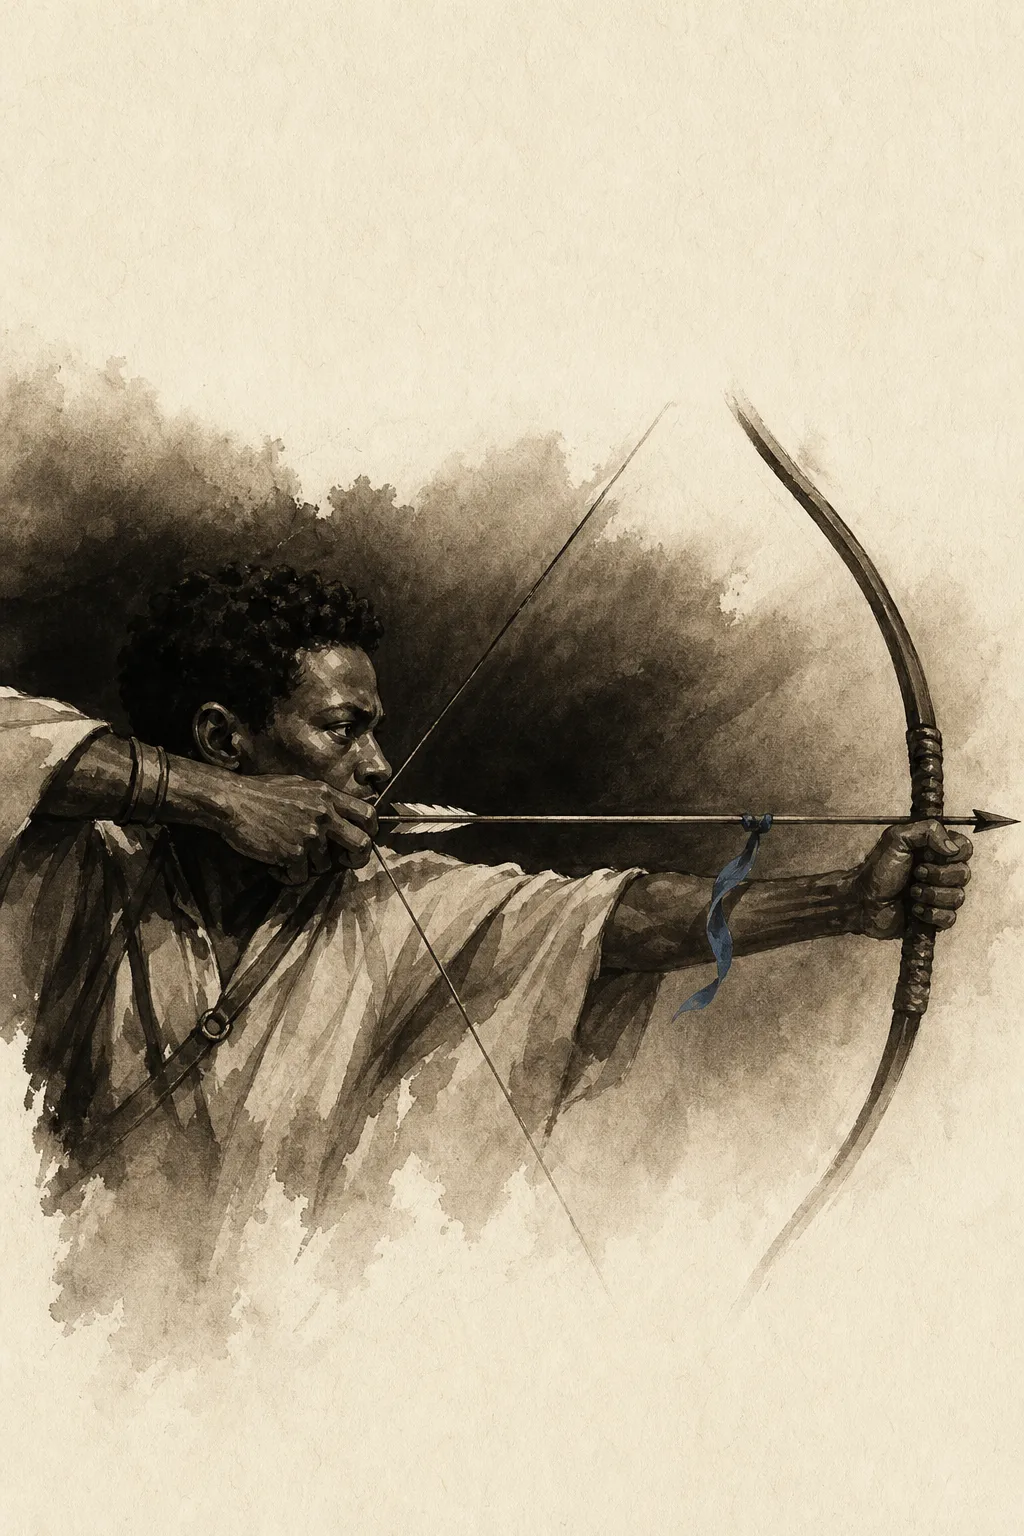
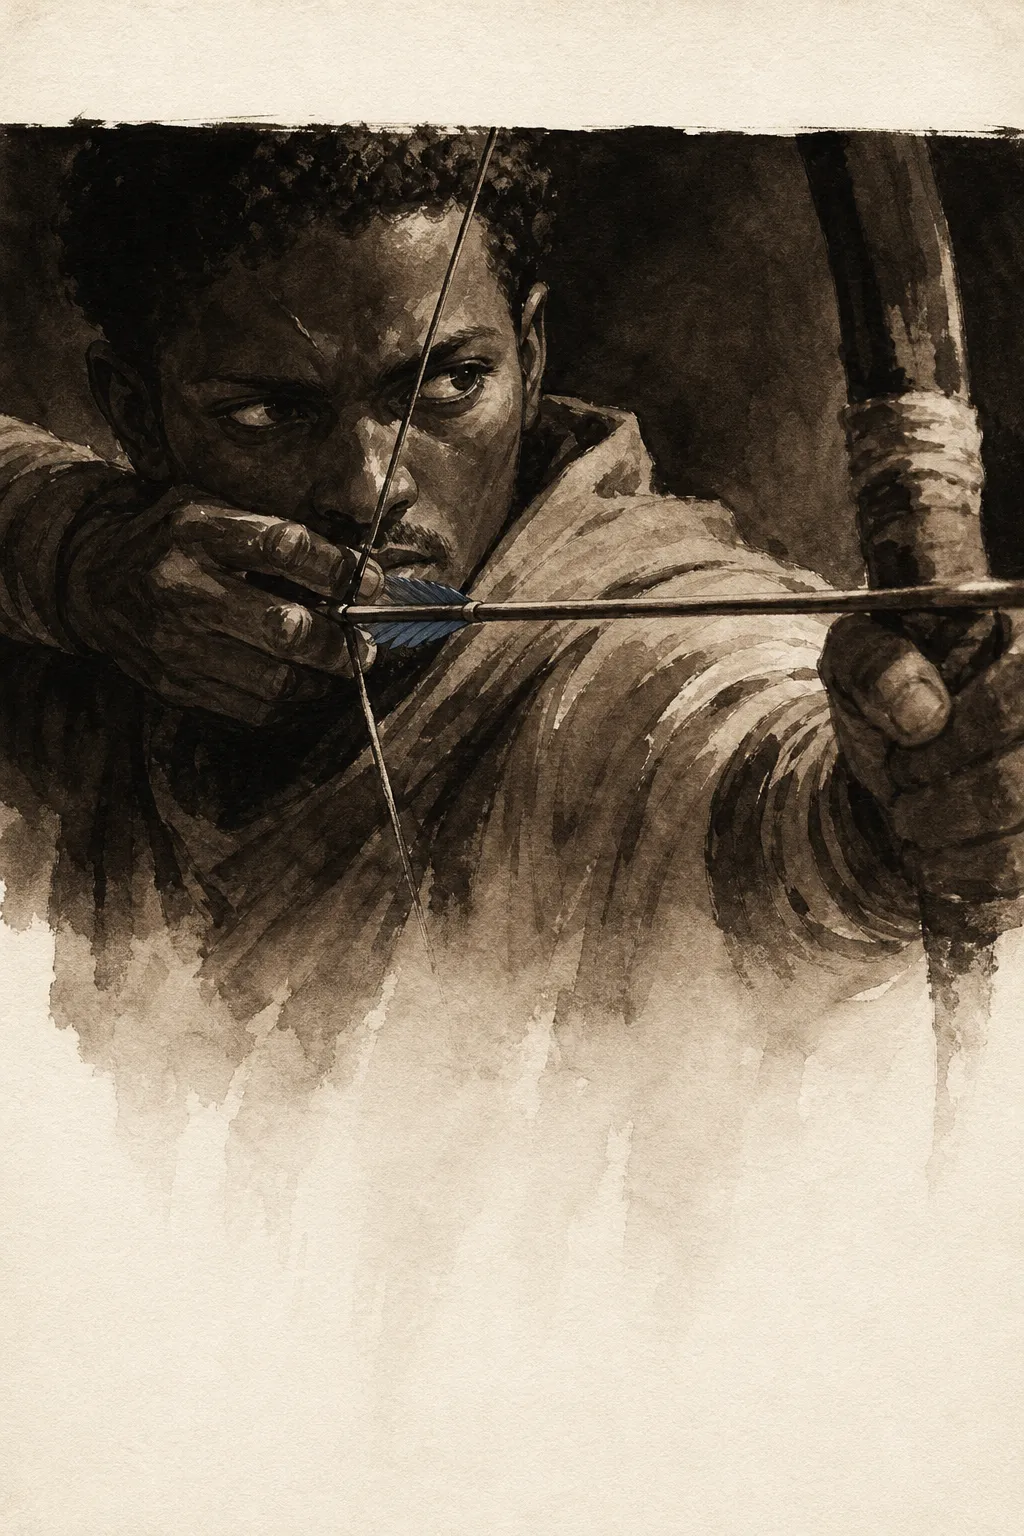
Three capsule versions could not fix a subject that reaches upward, and two of the three directions were mine
**The capsule is now in good shape and was not the remaining problem.** Three
wordings, three distinct outcomes, all in the verdict log:

| capsule | quietTop | inWindow |
|---|---|---|
| *about a tenth* (790 draws) | 32% under the floor | 7% under |
| *at least a sixth, more is fine* | 0% under | 75% under |
| *between a tenth and an eighth*, band anchored to the frame | 0.073-0.096 | **0.56-0.61** |

The third brought the window back to healthy and left `quietTop` a near-miss.
At that point the capsule has no more to give: the corridor is three points
wide and the subjects were the variable nobody had looked at.

**All three failing pieces describe something whose natural top is the top of
the frame, and I wrote two of those directions yesterday.**

- `off-hand` said *the strong hand is busy **above frame***, which is an
  instruction to fill the top edge. 0.089, 0.253, 0.073.
- `at-full-draw` said *the string fingers tight **against the jaw***, and a jaw
  means a head, and a head is tall. 0.096, 0.099, 0.078.
- `the-held-knife` said *arm back and still*, which is a raised arm. 0.065,
  0.117, 0.096 -- with window scores of 0.61-0.69 throughout, so the
  composition was right in every respect except the one the subject forced.

Each is recropped to the hand, with the tall part cut by the frame and the limb
leaving at the bottom edge. `at-full-draw` loses the face, which is also the
better picture: the strain of holding a bow is in the fingers and the string,
[…]

diff --git a/foundry/art-prompts.md b/foundry/art-prompts.md
@@ -223,6 +223,10 @@ layout is fixed and has been measured:
   across that half, so that half has to be the quiet one.
 - Together those two make the test: **the picture must still read with its bottom half covered.**
   Cover it in your head and check before you call it done.
+- **If the subject is taller than that band, CROP it rather than shrink it.** A bow, a raised
+  arm, a spear, a standing figure: the frame cuts through it and the part that matters stays in
+  the band. Never fit a tall thing in by making it small, and never let its top reach into the
+  bare strip to get all of it in.
 - ONE subject. A silhouette that still reads at **128 pixels wide**, which is the smallest size a
   card is drawn at in this game.
 
@@ -429,6 +433,10 @@ layout is fixed and has been measured:
   across that half, so that half has to be the quiet one.
 - Together those two make the test: **the picture must still read with its bottom half covered.**
   Cover it in your head and check before you call it done.
+- **If the subject is taller than that band, CROP it rather than shrink it.** A bow, a raised
+  arm, a spear, a standing figure: the frame cuts through it and the part that matters stays in
+  the band. Never fit a tall thing in by making it small, and never let its top reach into the
+  bare strip to get all of it in.
 - ONE subject. A silhouette that still reads at **128 pixels wide**, which is the smallest size a
   card is drawn at in this game.
 
@@ -546,7 +554,7 @@ File: `cards/shade-starter/off-hand.webp`
 ```text
 SUBJECT. "Off Hand" — Ready · / Strike
 
-Draw the second blade already working, held low and reversed in the weaker hand while the strong hand is busy above frame. Two blades in play, and this is the one nobody was watching.
+Draw the second blade already working, held low and reversed in the weaker hand, the blade and the knuckles filling the middle of the frame and the wrist leaving at the bottom edge. Nothing above the hand: no head, no shoulder and no second arm in the picture.
 
 WHO IS IN IT. If a face or any bare skin shows here, that person is a woman of Southeast Asian appearance, past fifty -- fixed, not a suggestion, and not a default to fall back from. If this crop shows no person at all, the line does not apply.
 ```
@@ -635,6 +643,10 @@ layout is fixed and has been measured:
   across that half, so that half has to be the quiet one.
 - Together those two make the test: **the picture must still read with its bottom half covered.**
   Cover it in your head and check before you call it done.
+- **If the subject is taller than that band, CROP it rather than shrink it.** A bow, a raised
+  arm, a spear, a standing figure: the frame cuts through it and the part that matters stays in
+  the band. Never fit a tall thing in by making it small, and never let its top reach into the
+  bare strip to get all of it in.
 - ONE subject. A silhouette that still reads at **128 pixels wide**, which is the smallest size a
   card is drawn at in this game.
 
@@ -822,6 +834,10 @@ layout is fixed and has been measured:
   across that half, so that half has to be the quiet one.
 - Together those two make the test: **the picture must still read with its bottom half covered.**
   Cover it in your head and check before you call it done.
+- **If the subject is taller than that band, CROP it rather than shrink it.** A bow, a raised
+  arm, a spear, a standing figure: the frame cuts through it and the part that matters stays in
+  the band. Never fit a tall thing in by making it small, and never let its top reach into the
+  bare strip to get all of it in.
 - ONE subject. A silhouette that still reads at **128 pixels wide**, which is the smallest size a
   card is drawn at in this game.
 
@@ -1356,6 +1372,10 @@ layout is fixed and has been measured:
   across that half, so that half has to be the quiet one.
 - Together those two make the test: **the picture must still read with its bottom half covered.**
   Cover it in your head and check before you call it done.
+- **If the subject is taller than that band, CROP it rather than shrink it.** A bow, a raised
+  arm, a spear, a standing figure: the frame cuts through it and the part that matters stays in
+  the band. Never fit a tall thing in by making it small, and never let its top reach into the
+  bare strip to get all of it in.
 - ONE subject. A silhouette that still reads at **128 pixels wide**, which is the smallest size a
   card is drawn at in this game.
 
@@ -1414,7 +1434,7 @@ File: `cards/shade/at-full-draw.webp`
 ```text
 SUBJECT. "At Full Draw" — Ready · / Move 1 · A bow or a crossbow. The first enemy to walk into the ground you are watching takes the shot, at the bow's own value, out to its...
 
-Draw a bow at full draw and held there -- the string fingers tight against the jaw, the arm locked, the arrow level and the whole frame motionless. The strain of holding it is the subject.
+Draw the drawing hand at full draw, three fingers hooked hard on the string with the arrow's nock between them and the string bent sharp either side. The bow's limbs are cut off by the frame and the arrow runs out of it level. No head, no face and no shoulder: the hand and the string are the whole subject.
 
 WHO IS IN IT. If a face or any bare skin shows here, that person is a man of Horn of Africa appearance, in their twenties -- fixed, not a suggestion, and not a default to fall back from. If this crop shows no person at all, the line does not apply.
 ```
@@ -1618,7 +1638,7 @@ File: `cards/shade/the-held-knife.webp`
 ```text
 SUBJECT. "The Held Knife" — Ready · / Move 1 · A weapon you can throw. The first enemy to walk into the ground you are watching takes it, at the blade's own value and no furth...
 
-Draw a knife held by the blade between finger and thumb, arm back and still, the point steady and aimed out of frame. Nothing is in flight and nothing has been hit.
+Draw a knife held by the blade between finger and thumb, the hand filling the upper middle of the frame and the forearm running out of the bottom corner. The point is steady and aimed out of frame to one side. Nothing above the hand: no head and no shoulder in the picture. The steel is warm grey, never blue.
 
 WHO IS IN IT. If a face or any bare skin shows here, that person is a woman of North African appearance, in their thirties -- fixed, not a suggestion, and not a default to fall back from. If this crop shows no person at all, the line does not apply.
 ```
@@ -1671,6 +1691,10 @@ layout is fixed and has been measured:
   across that half, so that half has to be the quiet one.
 - Together those two make the test: **the picture must still read with its bottom half covered.**
   Cover it in your head and check before you call it done.
+- **If the subject is taller than that band, CROP it rather than shrink it.** A bow, a raised
+  arm, a spear, a standing figure: the frame cuts through it and the part that matters stays in
+  the band. Never fit a tall thing in by making it small, and never let its top reach into the
+  bare strip to get all of it in.
 - ONE subject. A silhouette that still reads at **128 pixels wide**, which is the smallest size a
   card is drawn at in this game.
 
@@ -1950,6 +1974,10 @@ layout is fixed and has been measured:
   across that half, so that half has to be the quiet one.
 - Together those two make the test: **the picture must still read with its bottom half covered.**
   Cover it in your head and check before you call it done.
+- **If the subject is taller than that band, CROP it rather than shrink it.** A bow, a raised
+  arm, a spear, a standing figure: the frame cuts through it and the part that matters stays in
+  the band. Never fit a tall thing in by making it small, and never let its top reach into the
+  bare strip to get all of it in.
 - ONE subject. A silhouette that still reads at **128 pixels wide**, which is the smallest size a
   card is drawn at in this game.
 
@@ -2060,6 +2088,10 @@ layout is fixed and has been measured:
   across that half, so that half has to be the quiet one.
 - Together those two make the test: **the picture must still read with its bottom half covered.**
   Cover it in your head and check before you call it done.
+- **If the subject is taller than that band, CROP it rather than shrink it.** A bow, a raised
+  arm, a spear, a standing figure: the frame cuts through it and the part that matters stays in
+  the band. Never fit a tall thing in by making it small, and never let its top reach into the
+  bare strip to get all of it in.
 - ONE subject. A silhouette that still reads at **128 pixels wide**, which is the smallest size a
   card is drawn at in this game.
 
@@ -2266,6 +2298,10 @@ layout is fixed and has been measured:
   across that half, so that half has to be the quiet one.
 - Together those two make the test: **the picture must still read with its bottom half covered.**
   Cover it in your head and check before you call it done.
+- **If the subject is taller than that band, CROP it rather than shrink it.** A bow, a raised
+  arm, a spear, a standing figure: the frame cuts through it and the part that matters stays in
+  the band. Never fit a tall thing in by making it small, and never let its top reach into the
+  bare strip to get all of it in.
 - ONE subject. A silhouette that still reads at **128 pixels wide**, which is the smallest size a
   card is drawn at in this game.
 
@@ -2472,6 +2508,10 @@ layout is fixed and has been measured:
   across that half, so that half has to be the quiet one.
 - Together those two make the test: **the picture must still read with its bottom half covered.**
   Cover it in your head and check before you call it done.
+- **If the subject is taller than that band, CROP it rather than shrink it.** A bow, a raised
+  arm, a spear, a standing figure: the frame cuts through it and the part that matters stays in
+  the band. Never fit a tall thing in by making it small, and never let its top reach into the
+  bare strip to get all of it in.
 - ONE subject. A silhouette that still reads at **128 pixels wide**, which is the smallest size a
   card is drawn at in this game.
 
@@ -2654,6 +2694,10 @@ layout is fixed and has been measured:
   across that half, so that half has to be the quiet one.
 - Together those two make the test: **the picture must still read with its bottom half covered.**
   Cover it in your head and check before you call it done.
+- **If the subject is taller than that band, CROP it rather than shrink it.** A bow, a raised
+  arm, a spear, a standing figure: the frame cuts through it and the part that matters stays in
+  the band. Never fit a tall thing in by making it small, and never let its top reach into the
+  bare strip to get all of it in.
 - ONE subject. A silhouette that still reads at **128 pixels wide**, which is the smallest size a
   card is drawn at in this game.
 
@@ -2836,6 +2880,10 @@ layout is fixed and has been measured:
   across that half, so that half has to be the quiet one.
 - Together those two make the test: **the picture must still read with its bottom half covered.**
   Cover it in your head and check before you call it done.
+- **If the subject is taller than that band, CROP it rather than shrink it.** A bow, a raised
+  arm, a spear, a standing figure: the frame cuts through it and the part that matters stays in
+  the band. Never fit a tall thing in by making it small, and never let its top reach into the
+  bare strip to get all of it in.
 - ONE subject. A silhouette that still reads at **128 pixels wide**, which is the smallest size a
   card is drawn at in this game.
 
@@ -3018,6 +3066,10 @@ layout is fixed and has been measured:
   across that half, so that half has to be the quiet one.
 - Together those two make the test: **the picture must still read with its bottom half covered.**
   Cover it in your head and check before you call it done.
+- **If the subject is taller than that band, CROP it rather than shrink it.** A bow, a raised
+  arm, a spear, a standing figure: the frame cuts through it and the part that matters stays in
+  the band. Never fit a tall thing in by making it small, and never let its top reach into the
+  bare strip to get all of it in.
 - ONE subject. A silhouette that still reads at **128 pixels wide**, which is the smallest size a
   card is drawn at in this game.
 
@@ -3249,6 +3301,10 @@ layout is fixed and has been measured:
   across that half, so that half has to be the quiet one.
 - Together those two make the test: **the picture must still read with its bottom half covered.**
   Cover it in your head and check before you call it done.
+- **If the subject is taller than that band, CROP it rather than shrink it.** A bow, a raised
+  arm, a spear, a standing figure: the frame cuts through it and the part that matters stays in
+  the band. Never fit a tall thing in by making it small, and never let its top reach into the
+  bare strip to get all of it in.
 - ONE subject. A silhouette that still reads at **128 pixels wide**, which is the smallest size a
   card is drawn at in this game.
 
@@ -3480,6 +3536,10 @@ layout is fixed and has been measured:
   across that half, so that half has to be the quiet one.
 - Together those two make the test: **the picture must still read with its bottom half covered.**
   Cover it in your head and check before you call it done.
+- **If the subject is taller than that band, CROP it rather than shrink it.** A bow, a raised
+  arm, a spear, a standing figure: the frame cuts through it and the part that matters stays in
+  the band. Never fit a tall thing in by making it small, and never let its top reach into the
+  bare strip to get all of it in.
 - ONE subject. A silhouette that still reads at **128 pixels wide**, which is the smallest size a
   card is drawn at in this game.
 
@@ -3721,6 +3781,10 @@ layout is fixed and has been measured:
   across that half, so that half has to be the quiet one.
 - Together those two make the test: **the picture must still read with its bottom half covered.**
   Cover it in your head and check before you call it done.
+- **If the subject is taller than that band, CROP it rather than shrink it.** A bow, a raised
+  arm, a spear, a standing figure: the frame cuts through it and the part that matters stays in
+  the band. Never fit a tall thing in by making it small, and never let its top reach into the
+  bare strip to get all of it in.
 - ONE subject. A silhouette that still reads at **128 pixels wide**, which is the smallest size a
   card is drawn at in this game.
 
@@ -4020,6 +4084,10 @@ layout is fixed and has been measured:
   across that half, so that half has to be the quiet one.
 - Together those two make the test: **the picture must still read with its bottom half covered.**
   Cover it in your head and check before you call it done.
+- **If the subject is taller than that band, CROP it rather than shrink it.** A bow, a raised
+  arm, a spear, a standing figure: the frame cuts through it and the part that matters stays in
+  the band. Never fit a tall thing in by making it small, and never let its top reach into the
+  bare strip to get all of it in.
 - ONE subject. A silhouette that still reads at **128 pixels wide**, which is the smallest size a
   card is drawn at in this game.
 
@@ -4154,6 +4222,10 @@ layout is fixed and has been measured:
   across that half, so that half has to be the quiet one.
 - Together those two make the test: **the picture must still read with its bottom half covered.**
   Cover it in your head and check before you call it done.
+- **If the subject is taller than that band, CROP it rather than shrink it.** A bow, a raised
+  arm, a spear, a standing figure: the frame cuts through it and the part that matters stays in
+  the band. Never fit a tall thing in by making it small, and never let its top reach into the
+  bare strip to get all of it in.
 - ONE subject. A silhouette that still reads at **128 pixels wide**, which is the smallest size a
   card is drawn at in this game.
 
@@ -4253,6 +4325,10 @@ layout is fixed and has been measured:
   across that half, so that half has to be the quiet one.
 - Together those two make the test: **the picture must still read with its bottom half covered.**
   Cover it in your head and check before you call it done.
+- **If the subject is taller than that band, CROP it rather than shrink it.** A bow, a raised
+  arm, a spear, a standing figure: the frame cuts through it and the part that matters stays in
+  the band. Never fit a tall thing in by making it small, and never let its top reach into the
+  bare strip to get all of it in.
 - ONE subject. A silhouette that still reads at **128 pixels wide**, which is the smallest size a
   card is drawn at in this game.
 
@@ -5200,6 +5276,10 @@ layout is fixed and has been measured:
   across that half, so that half has to be the quiet one.
 - Together those two make the test: **the picture must still read with its bottom half covered.**
   Cover it in your head and check before you call it done.
+- **If the subject is taller than that band, CROP it rather than shrink it.** A bow, a raised
+  arm, a spear, a standing figure: the frame cuts through it and the part that matters stays in
+  the band. Never fit a tall thing in by making it small, and never let its top reach into the
+  bare strip to get all of it in.
 - ONE subject. A silhouette that still reads at **128 pixels wide**, which is the smallest size a
   card is drawn at in this game.
 
@@ -5883,6 +5963,10 @@ layout is fixed and has been measured:
   across that half, so that half has to be the quiet one.
 - Together those two make the test: **the picture must still read with its bottom half covered.**
   Cover it in your head and check before you call it done.
+- **If the subject is taller than that band, CROP it rather than shrink it.** A bow, a raised
+  arm, a spear, a standing figure: the frame cuts through it and the part that matters stays in
+  the band. Never fit a tall thing in by making it small, and never let its top reach into the
+  bare strip to get all of it in.
 - ONE subject. A silhouette that still reads at **128 pixels wide**, which is the smallest size a
   card is drawn at in this game.
 
@@ -6149,6 +6233,10 @@ layout is fixed and has been measured:
   across that half, so that half has to be the quiet one.
 - Together those two make the test: **the picture must still read with its bottom half covered.**
   Cover it in your head and check before you call it done.
+- **If the subject is taller than that band, CROP it rather than shrink it.** A bow, a raised
+  arm, a spear, a standing figure: the frame cuts through it and the part that matters stays in
+  the band. Never fit a tall thing in by making it small, and never let its top reach into the
+  bare strip to get all of it in.
 - ONE subject. A silhouette that still reads at **128 pixels wide**, which is the smallest size a
   card is drawn at in this game.
 
@@ -7997,6 +8085,10 @@ layout is fixed and has been measured:
   across that half, so that half has to be the quiet one.
 - Together those two make the test: **the picture must still read with its bottom half covered.**
   Cover it in your head and check before you call it done.
+- **If the subject is taller than that band, CROP it rather than shrink it.** A bow, a raised
+  arm, a spear, a standing figure: the frame cuts through it and the part that matters stays in
+  the band. Never fit a tall thing in by making it small, and never let its top reach into the
+  bare strip to get all of it in.
 - ONE subject. A silhouette that still reads at **128 pixels wide**, which is the smallest size a
   card is drawn at in this game.
 
@@ -8225,6 +8317,10 @@ layout is fixed and has been measured:
   across that half, so that half has to be the quiet one.
 - Together those two make the test: **the picture must still read with its bottom half covered.**
   Cover it in your head and check before you call it done.
+- **If the subject is taller than that band, CROP it rather than shrink it.** A bow, a raised
+  arm, a spear, a standing figure: the frame cuts through it and the part that matters stays in
+  the band. Never fit a tall thing in by making it small, and never let its top reach into the
+  bare strip to get all of it in.
 - ONE subject. A silhouette that still reads at **128 pixels wide**, which is the smallest size a
   card is drawn at in this game.
 
